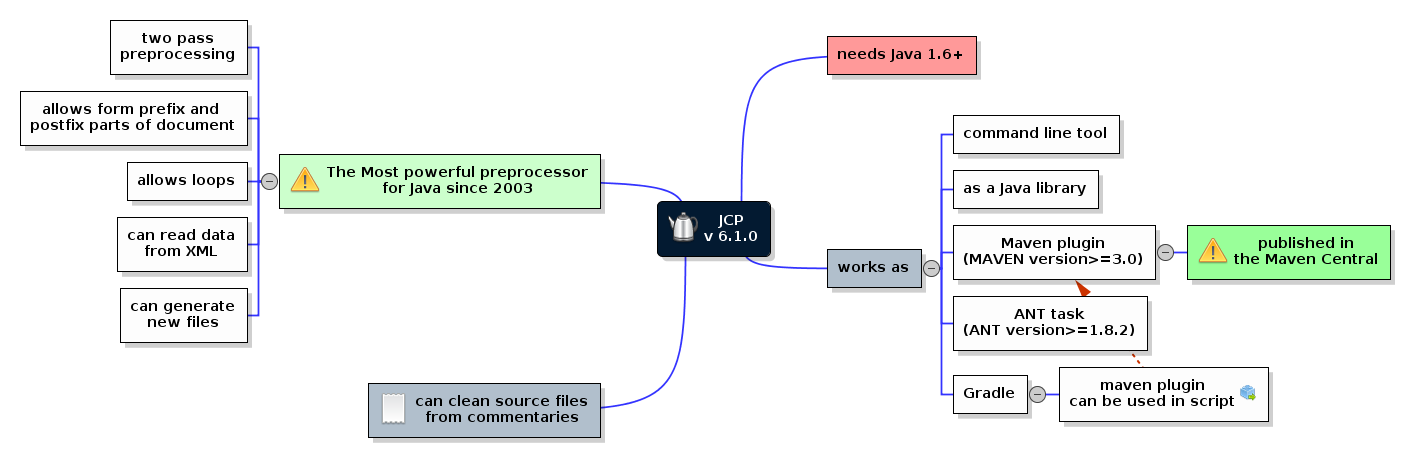
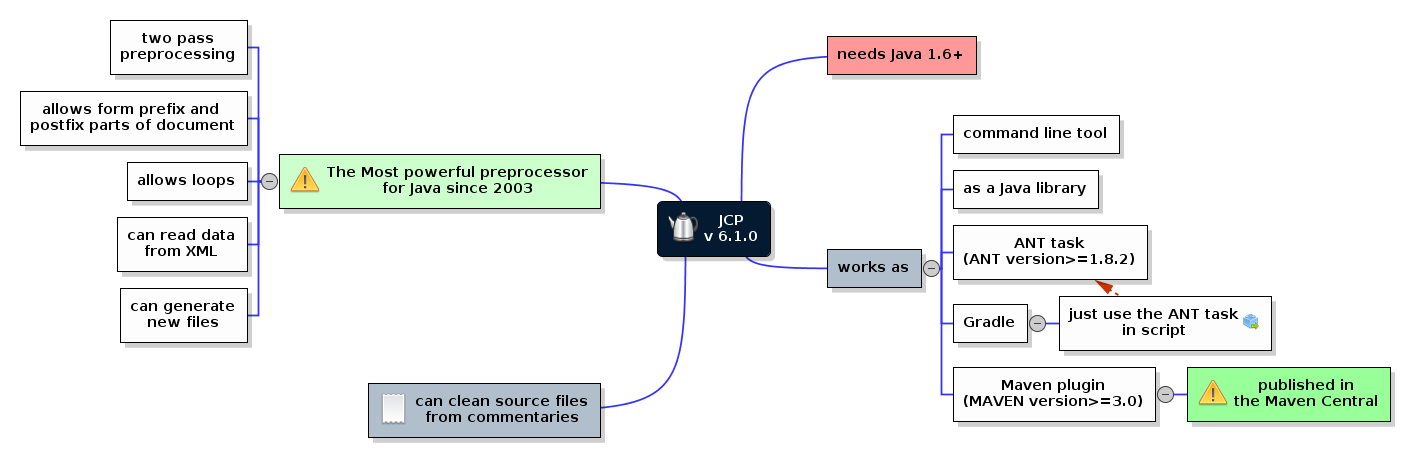
updated readme

Changed region(s): [[0.6553, 0.4891, 0.9986, 0.9476], [0.7489, 0.6114, 0.8113, 0.6419]]

diff --git a/README.md b/README.md
@@ -23,8 +23,8 @@
   - minor bug-fixing
 
 # Introduction
+I guess it is most powerful preprocessor for Java because it is a multi-pass one and can work with XML files as data sources. The First version of the preprocessor was published in 2003 and it was very actively used for J2ME developments. Modern version can be used for any kind of Java project because it can be used with ANT, MAVEN and Gradle.
 ![Features](https://raw.githubusercontent.com/raydac/java-comment-preprocessor/master/assets/doc1.png)
-It is the most powerful multi-pass preprocessor for Java but also it can be used everywhere for text processing if the destination technology supports Java like comment definitions. The Initial version was developed in 2002 by Igor Maznitsa to make easier development for J2ME platform to avoid bunch of repeated class sources for different devices, so that the preprocessor is a powerful tool to avoid DRY (Don't Repeat Yourself) problems. Injection of preprocessor directives into Java comments allows to keep full compatibility with standard Java development chain and make transparent usage in all Java IDEs. 
   
 # How to use
 [The Full list of the preprocessor directives can be found in the wiki.](https://github.com/raydac/java-comment-preprocessor/wiki/PreprocessorDirectives)   
